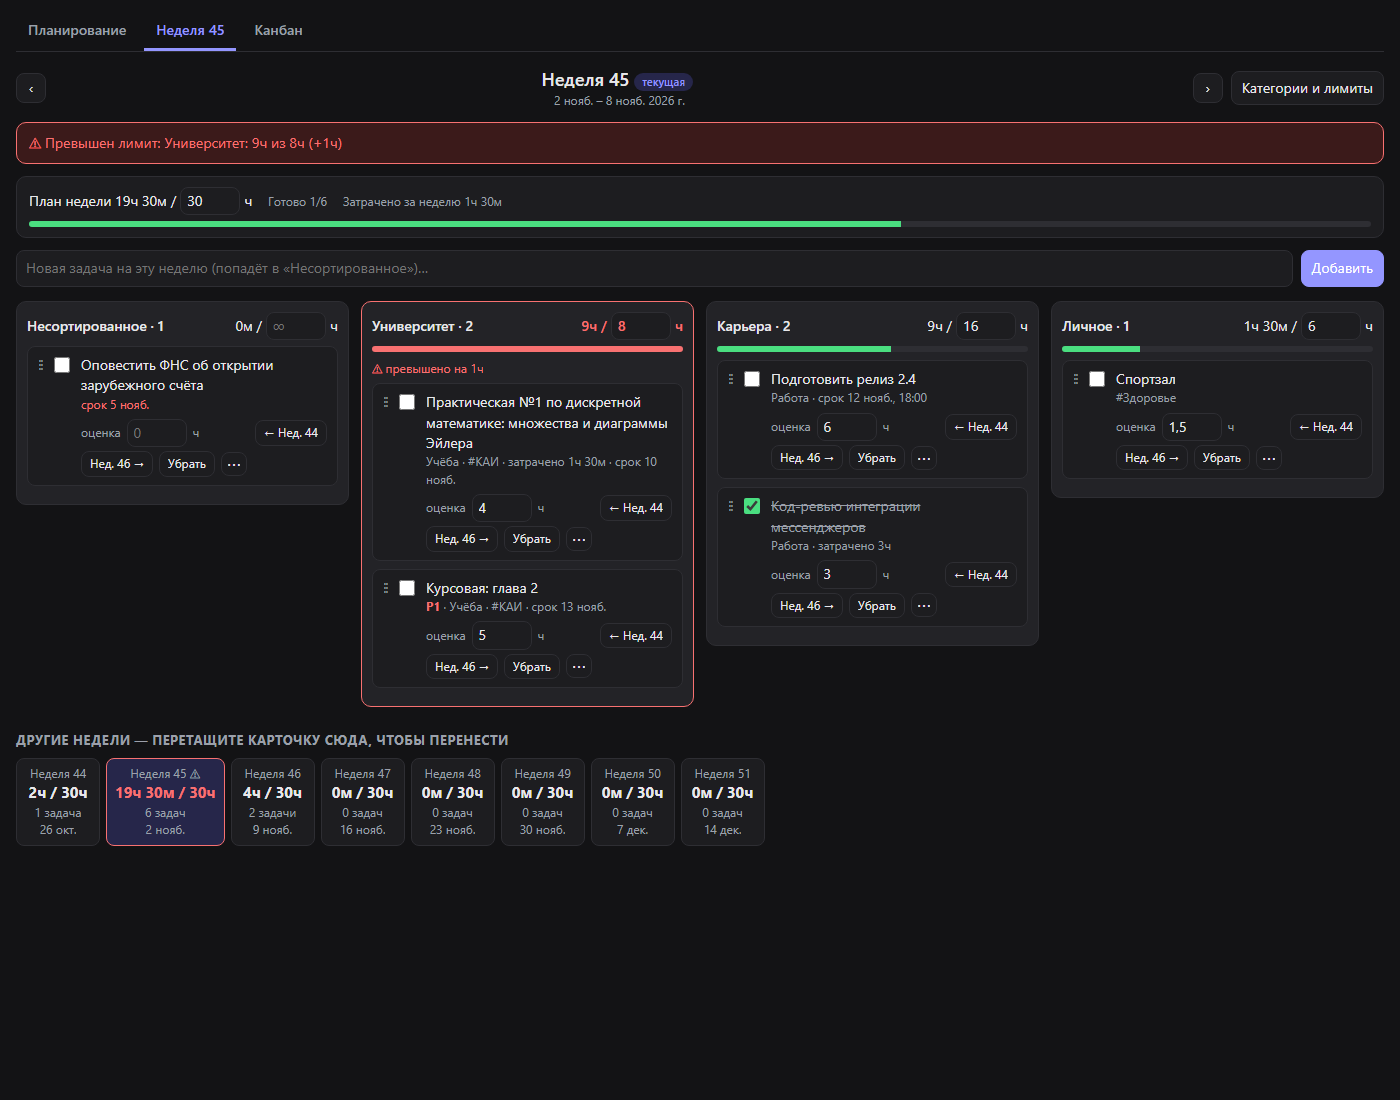
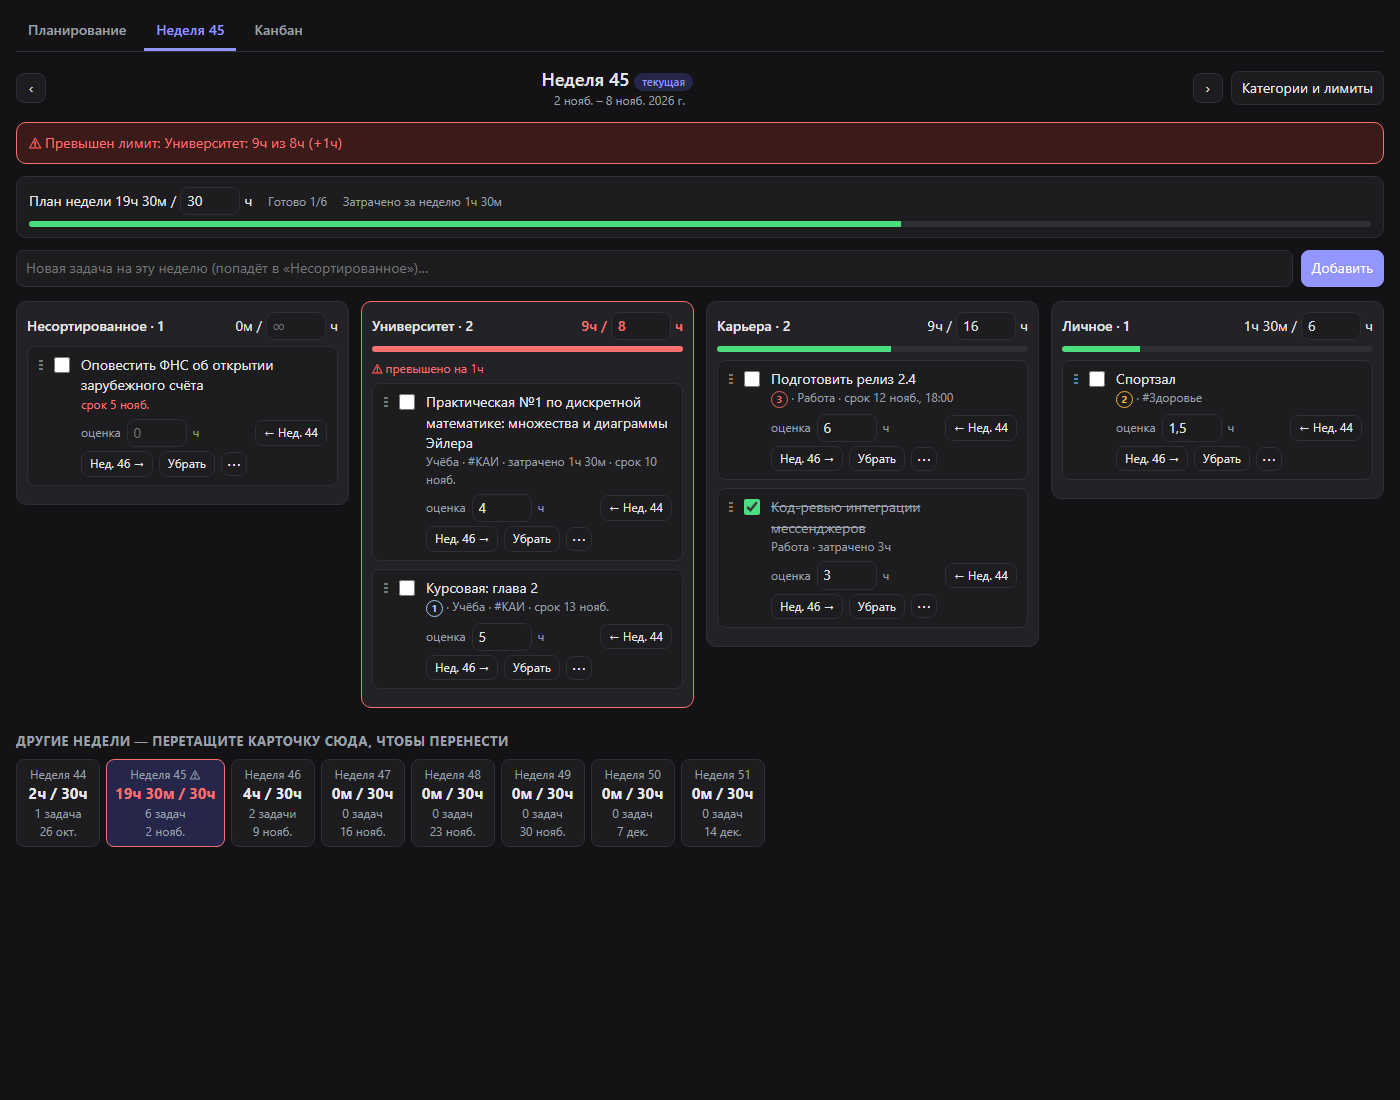
0.5.1: priority badges look like in Super Productivity

diff --git a/week-planner/index.html b/week-planner/index.html
@@ -195,13 +195,18 @@
   .ctx-head { padding: 8px 14px 4px; font-weight: 600; }
   .ctx-form { display: flex; flex-wrap: wrap; align-items: center; gap: 6px; padding: 6px 14px; }
   .more-btn { width: 26px; height: 24px; padding: 0; line-height: 20px; font-size: 16px; }
-  .prio { font-weight: 700; }
-  .prio-1 { color: #dc2626; }
-  .prio-2 { color: #ea580c; }
-  .prio-3 { color: #2563eb; }
-  body.dark .prio-1 { color: #f87171; }
-  body.dark .prio-2 { color: #fb923c; }
-  body.dark .prio-3 { color: #60a5fa; }
+  /* Priority looks like in Super Productivity: a digit in a ring; 1 blue, 2 amber, 3 red. */
+  .prio {
+    display: inline-flex; align-items: center; justify-content: center; flex-shrink: 0;
+    width: 17px; height: 17px; border: 1.5px solid currentColor; border-radius: 50%;
+    font-size: 10px; font-weight: 700; line-height: 1; vertical-align: middle;
+  }
+  .prio-1 { color: #4a7fd8; }
+  .prio-2 { color: #d08a12; }
+  .prio-3 { color: #e0453a; }
+  body.dark .prio-1 { color: #a8c7fa; }
+  body.dark .prio-2 { color: #f6b13b; }
+  body.dark .prio-3 { color: #f2665c; }
 
   /* toast */
   .toast {
@@ -1149,7 +1154,7 @@
   function metaEl(task, extra) {
     var parts = [];
     var prio = prioOf(task);
-    if (prio) parts.push(el('span', { className: 'prio prio-' + prio, text: 'P' + prio }));
+    if (prio) parts.push(prioBadge(prio));
     if (task.projectId && state.projects[task.projectId]) parts.push(state.projects[task.projectId]);
     (task.tagIds || []).forEach(function (id) { if (id !== TODAY_TAG) parts.push('#' + tagTitle(id)); });
     if (task.parentId) parts.push(t('subtask'));
@@ -1543,6 +1548,10 @@
     return p >= 1 && p <= 3 ? p : null;
   }
 
+  function prioBadge(p) {
+    return el('span', { className: 'prio prio-' + p, text: String(p), title: t('ctxPriority') + ' ' + p });
+  }
+
   function attachCtx(li, task, holder) {
     li.addEventListener('contextmenu', function (ev) {
       ev.preventDefault();
@@ -1592,8 +1601,10 @@
       disabled: opts.disabled ? 'disabled' : null, title: opts.title || null, onclick: onClick
     }, [
       el('span', { className: 'ico', text: ico }),
+      opts.lead || null,
       el('span', { className: 'grow', text: label }),
       opts.val ? el('span', { className: 'val', text: opts.val }) : null,
+      opts.valNode || null,
       opts.sub ? el('span', { className: 'val', text: '▸' }) : null
     ]);
   }
@@ -1666,7 +1677,7 @@
       sub: true, disabled: archived, val: state.projects[task.projectId] || ''
     }));
     items.push(ctxItem('!', t('ctxPriority'), function () { ctxGo('prio'); }, {
-      sub: true, disabled: archived, val: prioOf(task) ? 'P' + prioOf(task) : ''
+      sub: true, disabled: archived, valNode: prioOf(task) ? prioBadge(prioOf(task)) : null
     }));
     items.push(ctxSep());
     items.push(ctxItem('◫', t('ctxWeek'), function () { ctxGo('week'); }, {
@@ -1742,8 +1753,8 @@
     if (view === 'prio') {
       items = ctxBack(t('ctxPriority'));
       [1, 2, 3].forEach(function (p) {
-        items.push(ctxItem(radio(prioOf(task) === p), 'P' + p,
-          ctxAct(function () { return updateTaskFields(task, { priority: p }); }), { cls: 'prio-' + p }));
+        items.push(ctxItem(radio(prioOf(task) === p), t('ctxPriority') + ' ' + p,
+          ctxAct(function () { return updateTaskFields(task, { priority: p }); }), { lead: prioBadge(p) }));
       });
       items.push(ctxItem(radio(!prioOf(task)), t('ctxNoPrio'), ctxAct(function () { return updateTaskFields(task, { priority: null }); })));
       return items;

diff --git a/tests/fake-api.js b/tests/fake-api.js
@@ -31,9 +31,9 @@ module.exports = function fakeApiSource() {
     T('t1', 'Практическая №1 по дискретной математике: множества и диаграммы Эйлера', { projectId: 'uni', tagIds: ['kai'], timeEstimate: 4 * H, timeSpent: 1.5 * H, dueDay: '2026-11-10', timeSpentOnDay: { '2026-11-03': 1.5 * H } }),
     T('t2', 'Курсовая: глава 2', { projectId: 'uni', tagIds: ['kai'], timeEstimate: 5 * H, dueDay: '2026-11-13', priority: 1 }),
     T('t3', 'Код-ревью интеграции мессенджеров', { projectId: 'work', timeEstimate: 3 * H, timeSpent: 3 * H, isDone: true }),
-    T('t4', 'Подготовить релиз 2.4', { projectId: 'work', timeEstimate: 6 * H, dueWithTime: new Date(2026, 10, 12, 18, 0).getTime() }),
+    T('t4', 'Подготовить релиз 2.4', { projectId: 'work', timeEstimate: 6 * H, dueWithTime: new Date(2026, 10, 12, 18, 0).getTime(), priority: 3 }),
     T('t5', 'Оповестить ФНС об открытии зарубежного счёта', { dueDay: '2026-11-05' }),
-    T('t6', 'Спортзал', { tagIds: ['health', 'TODAY'], timeEstimate: 1.5 * H }),
+    T('t6', 'Спортзал', { tagIds: ['health', 'TODAY'], timeEstimate: 1.5 * H, priority: 2 }),
     T('t7', 'Отчёт по практике', { projectId: 'uni', tagIds: ['kai'], timeEstimate: 2 * H, dueDay: '2026-11-02' }),
     T('t8', 'Созвон с заказчиком', { projectId: 'work', timeEstimate: 1 * H }),
     T('t9', 'Подготовка к коллоквиуму', { projectId: 'uni', tagIds: ['kai'], timeEstimate: 3 * H }),

diff --git a/tests/smoke.test.js b/tests/smoke.test.js
@@ -240,11 +240,12 @@ function drag(w, from, to) {
       ['Отметить как выполненное', 'Начать отслеживание времени', 'Оценка', 'Переключать метки',
         'Переместить в другой проект', 'Приоритет', 'Неделя', 'Категория', 'Открыть панель задачи', 'Удалить задачу']
         .forEach((l) => assert.ok(item(l), 'missing ' + l));
-      assert.ok(card('Курсовая').textContent.includes('P1'), 'priority badge on the card');
+      const badge = card('Курсовая').querySelector('.prio');
+      assert.ok(badge && badge.classList.contains('prio-1') && badge.textContent === '1', 'priority badge on the card');
     });
 
     item('Приоритет').click();
-    item('P3').click();
+    item('Приоритет 3').click();
     await wait(50);
     check('priority can be changed', () => {
       assert.strictEqual(task('t2').priority, 3);

diff --git a/CHANGELOG.md b/CHANGELOG.md
@@ -2,6 +2,11 @@
 
 The project is in early development (0.x). Data formats and UI may still change.
 
+## 0.5.1 — 2026-11-08
+
+- Priority looks like in Super Productivity: a digit in a ring, 1 light blue, 2 amber, 3 red.
+  The light theme uses darker shades of the same colors.
+
 ## 0.5.0 — 2026-11-08
 
 - **Task menu:** right-click any task card (or press "⋯" on it) to open a menu like the native task menu of
